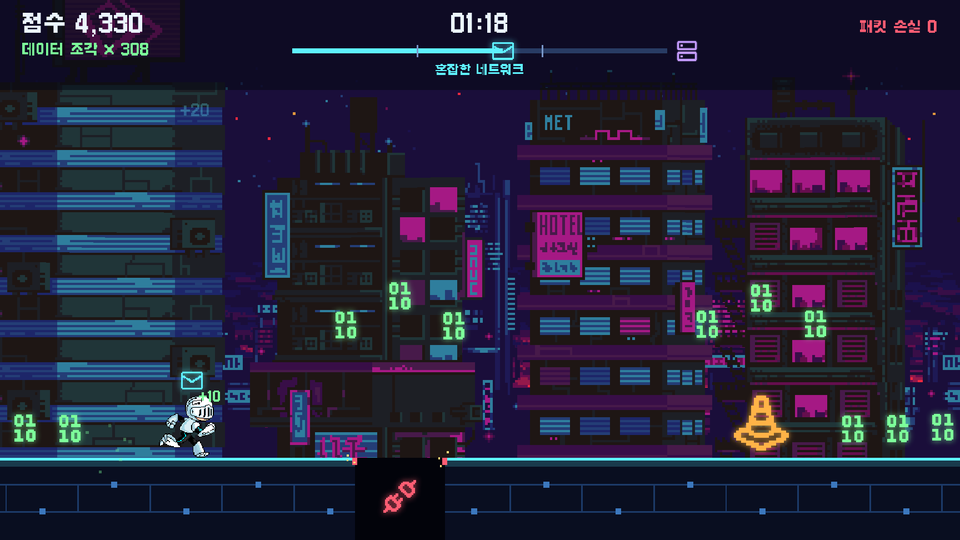
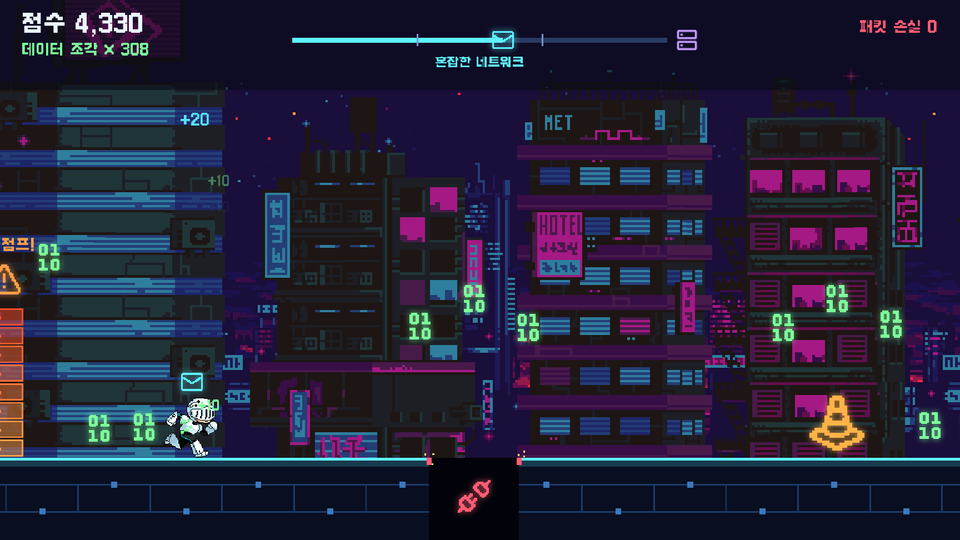
Hide remaining-time counter from the HUD; credit flip sheet as AI-generated
- HUD shows score, fragments, packet loss and the progress bar with the zone
  name; the mm:ss countdown is removed (progress bar still shows how far the
  server is)
- CREDITS/README: double-jump sheet made with ChatGPT image generation
- Refresh README screenshots

Claude-Session: https://claude.ai/code/session_01UzXeewS9Zm5MkUt1EaZ45m

diff --git a/packet_runner/hud.py b/packet_runner/hud.py
@@ -1,19 +1,18 @@
-"""게임 화면 위쪽 정보: 점수, 데이터 수, 남은 시간, 서버까지 진행률."""
+"""게임 화면 위쪽 정보: 점수, 데이터 수, 패킷 손실, 서버까지 진행률(남은 시간은 숫자로 보여 주지 않는다)."""
 
 import arcade
 
 from . import assets
 from . import config as C
 
-BAR_L, BAR_R, BAR_Y = 585, 1335, 978
+BAR_L, BAR_R, BAR_Y = 585, 1335, 1000
 
 
 class Hud:
     def __init__(self):
         self.score = assets.text("", 45, 1014, C.WHITE, 33)
         self.fragments = assets.text("", 45, 969, C.GREEN, 21)
-        self.time = assets.text("", C.SCREEN_W / 2, 1014, C.WHITE, 33, anchor_x="center")
-        self.zone = assets.text("", C.SCREEN_W / 2, 930, C.CYAN, 18, anchor_x="center")
+        self.zone = assets.text("", C.SCREEN_W / 2, 945, C.CYAN, 18, anchor_x="center")
         self.collisions = assets.text("", C.SCREEN_W - 45, 1014, C.RED, 21, anchor_x="right")
         self.icons = arcade.SpriteList()
         self.marker = arcade.Sprite(assets.icon("packet"))
@@ -22,10 +21,8 @@ class Hud:
         self.icons.extend([self.goal, self.marker])
 
     def update(self, score: int, fragments: int, collisions: int, t: float, zone_name: str) -> None:
-        remain = max(0.0, C.GAME_TIME - t)
         self.score.text = f"점수 {score:,}"
         self.fragments.text = f"데이터 조각 × {fragments}"
-        self.time.text = f"{int(remain // 60):02d}:{int(remain % 60):02d}"
         self.zone.text = zone_name
         self.collisions.text = f"패킷 손실 {collisions}"
         progress = min(1.0, t / C.GAME_TIME)
@@ -38,5 +35,5 @@ class Hud:
         for x in (BAR_L + (BAR_R - BAR_L) / 3, BAR_L + (BAR_R - BAR_L) * 2 / 3):
             arcade.draw_lrbt_rectangle_filled(x - 2, x + 2, BAR_Y - 12, BAR_Y + 12, (120, 150, 200))
         self.icons.draw(pixelated=True)
-        for label in (self.score, self.fragments, self.time, self.zone, self.collisions):
+        for label in (self.score, self.fragments, self.zone, self.collisions):
             label.draw()

diff --git a/구현계획.md b/구현계획.md
@@ -60,7 +60,7 @@ data_packet-runner/
 │  │  ├─ background.py      # 3겹 패럴랙스 스크롤
 │  │  └─ effects.py         # 입자/오류 표시/서버 도착 연출
 │  └─ ui/
-│     ├─ hud.py             # 남은 시간, 점수, 진행률 바, 오늘 최고 점수
+│     ├─ hud.py             # 점수, 진행률 바, 오늘 최고 점수 (남은 시간 숫자는 표시하지 않음)
 │     └─ ranking_board.py   # 순위표 그리기 (시작 화면·결과 화면 공용)
 ├─ data/                    # 실행 시 생성, git 제외(.gitignore)
 │  └─ ranking.json          # 로컬 랭킹 기록
@@ -147,7 +147,7 @@ TitleView ──(키 입력)──▶ TutorialView(20s) ──▶ GameView(180s)
 ## 6. 화면 / UI
 
 - 해상도 **1920×1080**으로 확정. 다른 창 크기·모니터에서는 비율을 유지해 확대·축소하고 남는 부분은 검은 여백(레터박스)으로 채운다. 전체화면 옵션 제공.
-- **HUD:** 좌상단 점수·수집 수 / 중앙 상단 남은 시간(mm:ss) / 하단 또는 상단 진행률 바(출발지 → 서버 아이콘) / 우상단 오늘 최고 점수(도전 목표, 넘어서면 “신기록!” 강조).
+- **HUD:** 좌상단 점수·수집 수 / 중앙 상단 진행률 바(출발지 → 서버 아이콘)와 구간 이름 — 남은 시간 숫자는 플레이에 방해가 되어 표시하지 않기로 결정(기획서 §⑤ “상단 정보: 남은 시간”에서 변경) / 우상단 오늘 최고 점수(도전 목표, 넘어서면 “신기록!” 강조).
 - **배경:** 어두운 남색 바탕 + 회로 패턴(먼 층 느림, 가까운 층 빠름) + 네트워크 선. 구간별 색조 변화(로컬=청록, 혼잡=주황 경고톤, 서버=보라/금색).
 - **효과:** 조각 획득 시 입자(`arcade.Emitter` 또는 단순 스프라이트 풀), 충돌 시 “ERROR / 패킷 손실” 팝업과 화면 약한 흔들림, 도착 시 서버로 패킷이 빨려 들어가고 “전송 완료” 표시.
 - **글꼴:** Galmuri11(픽셀 한글, SIL OFL)을 `assets/fonts/`에 포함하고 `arcade.load_font`로 로드한다. OS 기본 폰트에 의존하지 않는다(부스 PC 환경 차이 방지). **보통·굵게 두 파일을 모두 등록해야 한다** — Arcade는 글꼴 이름을 보통 굵기로 먼저 찾기 때문에 굵게 파일만 있으면 이름을 찾지 못하고 한글이 없는 기본 글꼴로 바뀐다.

diff --git a/assets/CREDITS.md b/assets/CREDITS.md
@@ -4,7 +4,7 @@
 |---|---|---|---|---|
 | [Animated Runner Character](https://opengameart.org/content/animated-runner-character) | irmirx | **CC0** (CC-BY 3.0 / CC0 이중 라이선스 중 CC0 선택) | `source/runner_sheet.png` | 달리기·점프 프레임을 잘라 발 위치를 맞춤, 사격 동작은 사용하지 않음 |
 | 러너 슬라이딩 동작 시트 (위 캐릭터 기반) | 프로젝트 팀 — **ChatGPT 이미지 생성 기능으로 만든 AI 생성 이미지** | CC0 캐릭터를 바탕으로 생성, OpenAI 이용약관에 따라 사용 | `source/runner_slide_sheet.webp` | 8프레임 중 5프레임(젖히기·눕기 2·일어서기 2) 사용, 0.44배 축소, 갈색 먼지 제거, 가장자리 정리 |
-| 러너 2단 점프 공중제비 시트 (위 캐릭터 기반) | 프로젝트 팀 제공 — **제작 도구 확인 필요** (AI 생성이면 표기) | CC0 캐릭터를 바탕으로 제작 | `source/runner_flip_sheet.png` | 8프레임 중 4프레임(박차기·웅크림 2·마무리) 사용, 0.37배 축소, 발밑 폭발은 별도 효과(`dj_burst.png`)로 분리, 주변 불꽃 제거 |
+| 러너 2단 점프 공중제비 시트 (위 캐릭터 기반) | 프로젝트 팀 — **ChatGPT 이미지 생성 기능으로 만든 AI 생성 이미지** | CC0 캐릭터를 바탕으로 생성, OpenAI 이용약관에 따라 사용 | `source/runner_flip_sheet.png` | 8프레임 중 4프레임(박차기·웅크림 2·마무리) 사용, 0.37배 축소, 발밑 폭발은 별도 효과(`dj_burst.png`)로 분리, 주변 불꽃 제거 |
 | [Warped City](https://ansimuz.itch.io/warped-city) | Luis Zuno (ansimuz) | **CC0** (`licenses/warped-city-public-license.pdf`, 음악은 별도 라이선스라 사용하지 않음) | `source/warped-city/` 배경 3장 | `near-buildings-bg.png`의 'BAR' 간판 글자를 'NET'으로 교체 |
 | [Lucide](https://lucide.dev) 아이콘 (`traffic-cone`, `cloud-lightning`, `unplug`, `binary`, `refresh-cw`, `server`, `mail`) | Lucide Contributors | **ISC** (`licenses/lucide-LICENSE.txt` — 함께 배포 필수) | `source/icons/` | 색 변경, 24px 래스터화 후 정수 배 확대(픽셀화), 발광 효과 |
 | [Galmuri11](https://github.com/quiple/galmuri) 글꼴 (보통·굵게) | Lee Minseo (quiple) | **SIL OFL 1.1** (`licenses/galmuri-OFL.md` — 함께 배포 필수) | `fonts/` | 변경 없음 |

diff --git a/README.md b/README.md
@@ -155,7 +155,7 @@ python tools/build_assets.py
 
 - 캐릭터: **Animated Runner Character** — irmirx (CC0)
 - 슬라이딩 동작: 위 캐릭터를 바탕으로 팀이 **ChatGPT 이미지 생성 기능**으로 만든 그림 (AI 생성 이미지)
-- 2단 점프 공중제비: 위 캐릭터를 바탕으로 팀이 만든 그림
+- 2단 점프 공중제비: 위 캐릭터를 바탕으로 팀이 **ChatGPT 이미지 생성 기능**으로 만든 그림 (AI 생성 이미지)
 - 배경: **Warped City** — Luis Zuno / ansimuz (CC0)
 - 아이콘: **Lucide** (ISC)
 - 글꼴: **Galmuri11** — Lee Minseo (SIL OFL 1.1)
